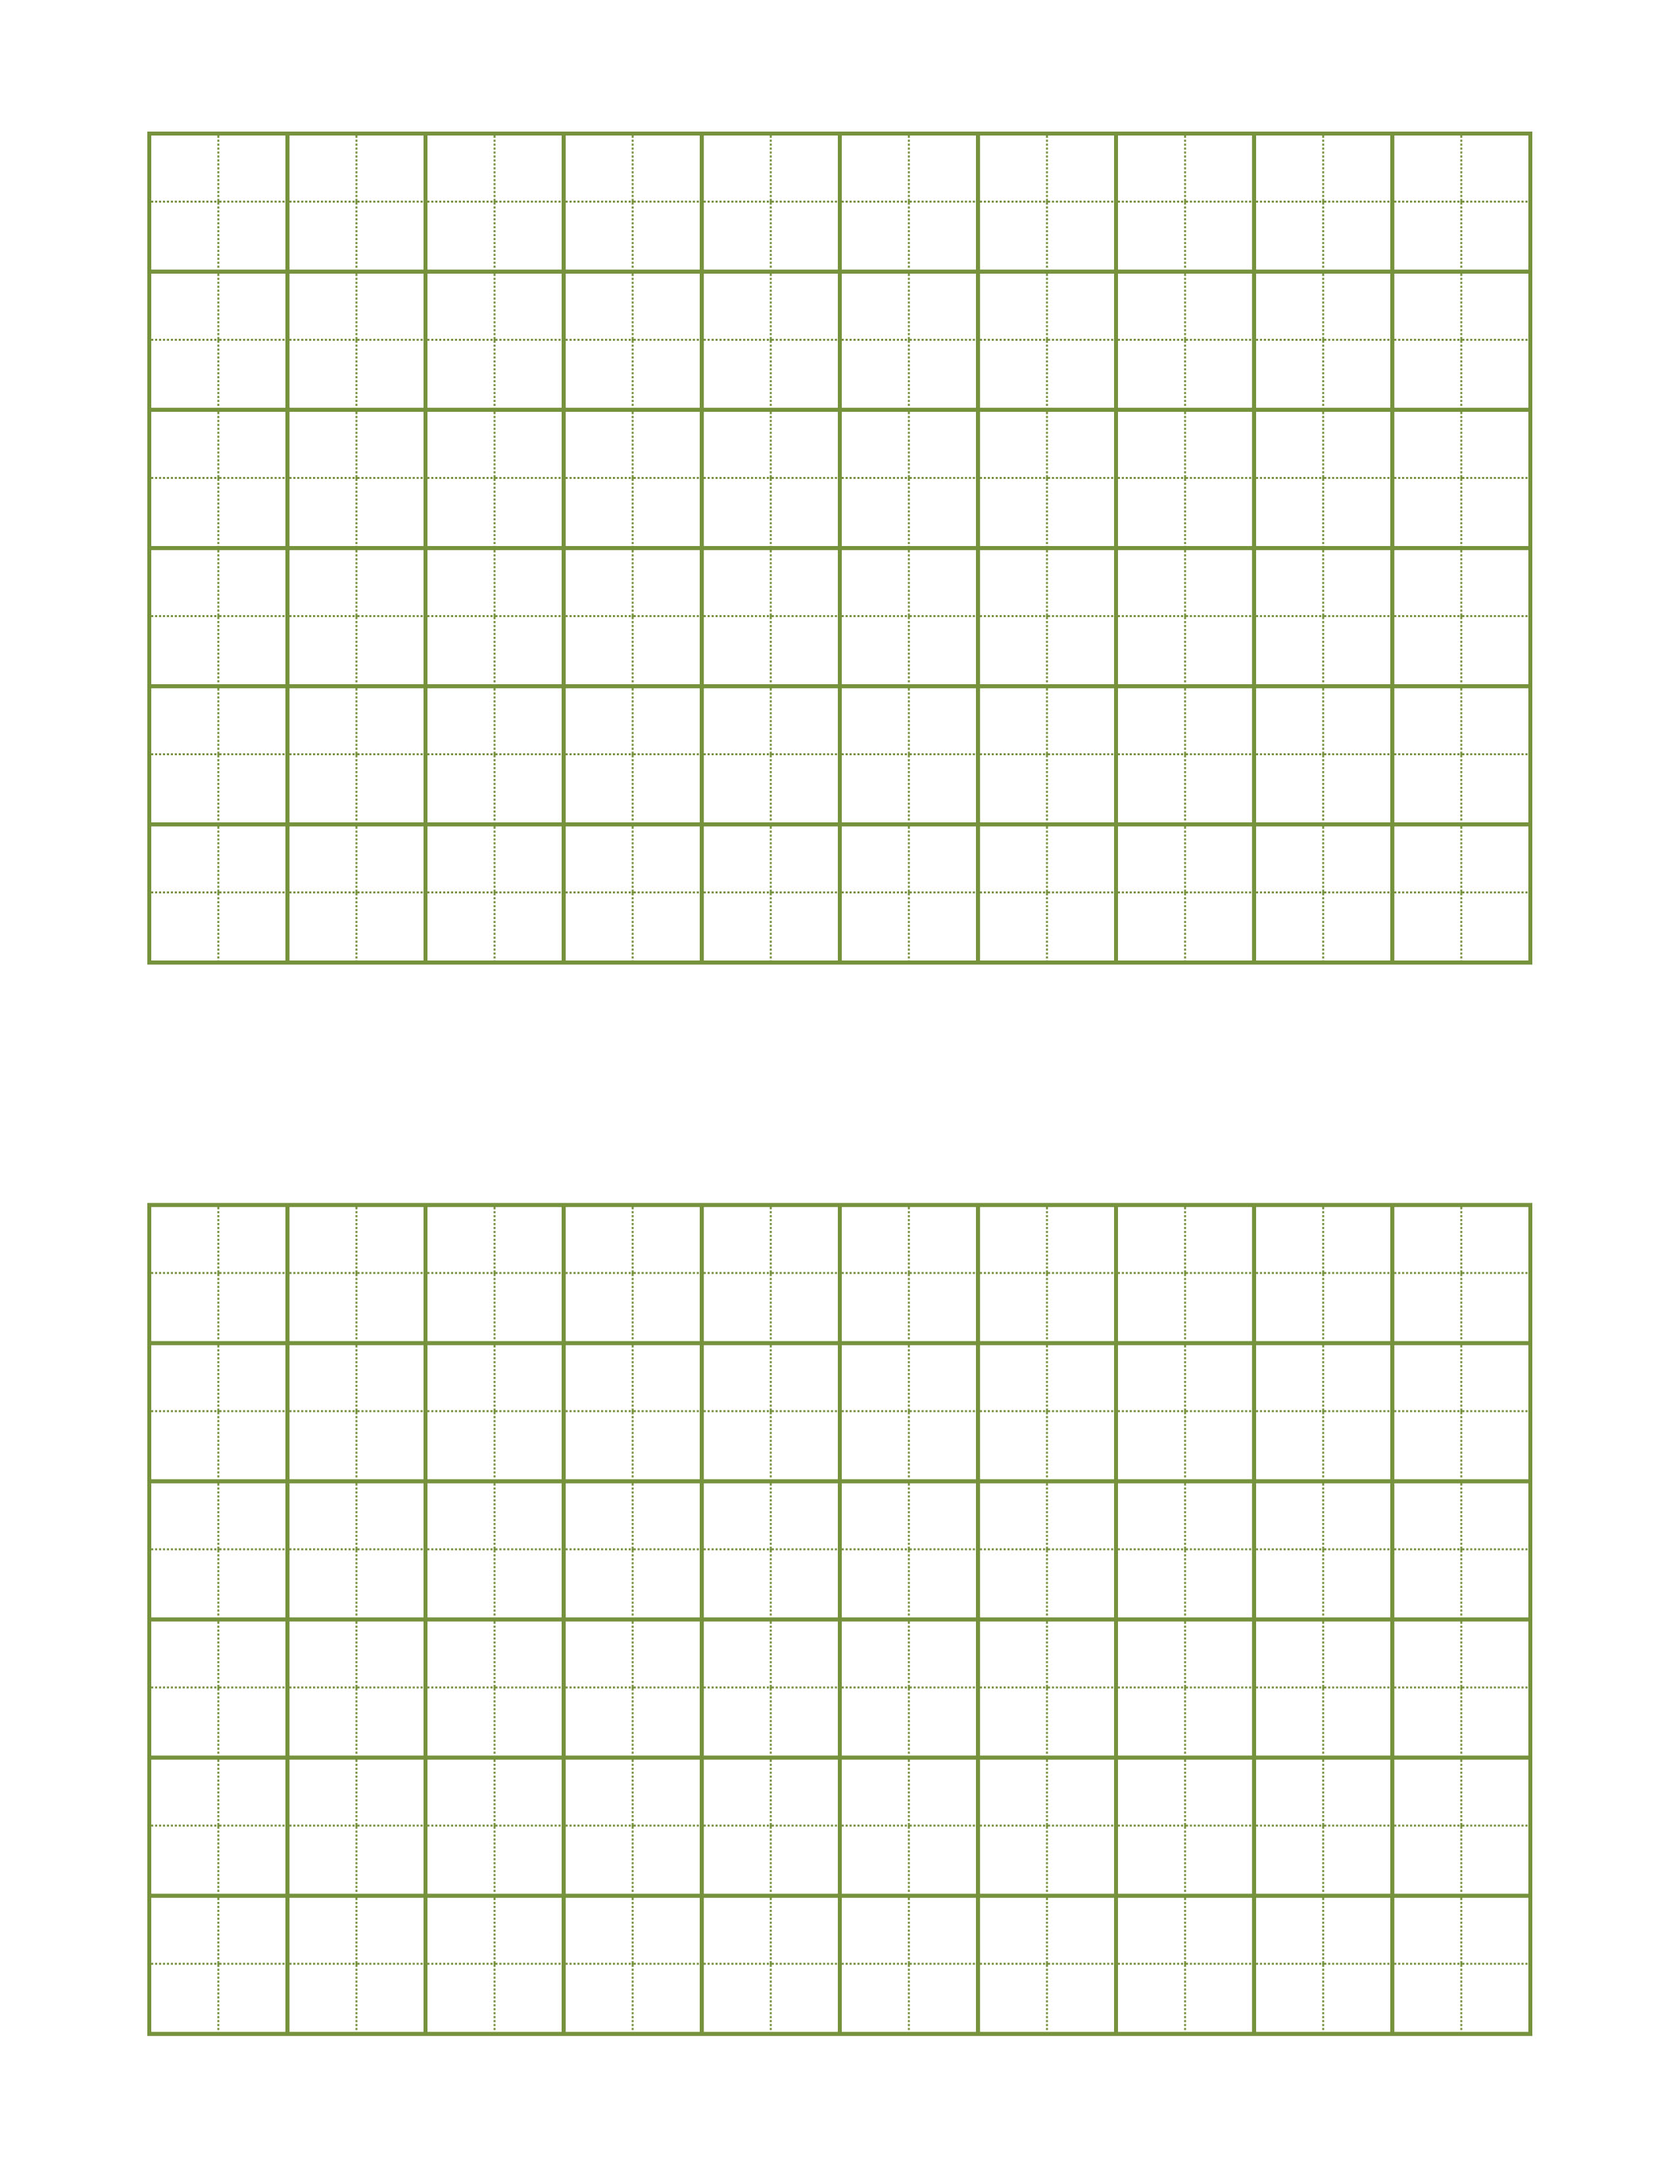
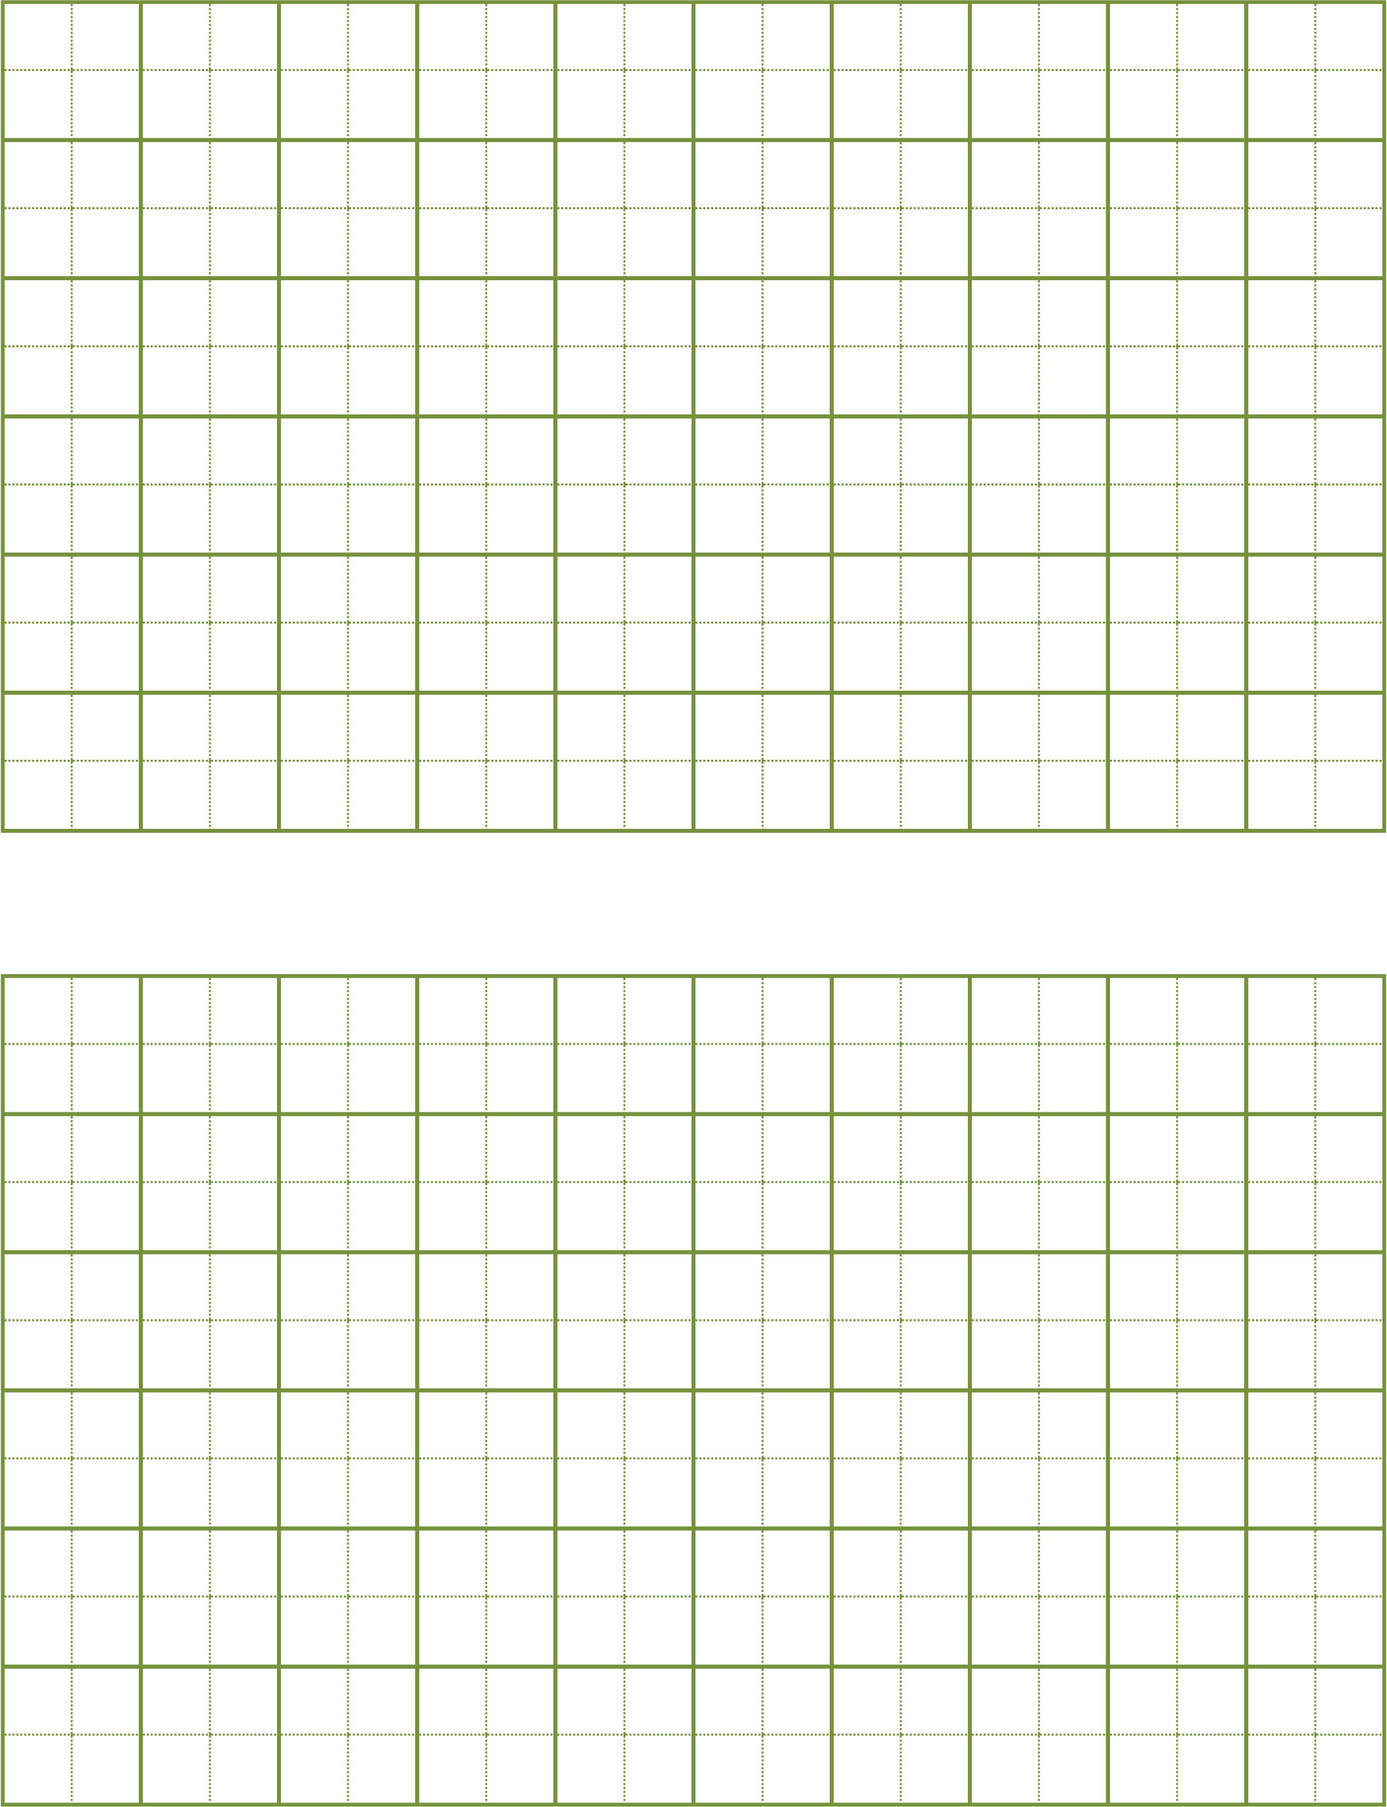
Fix printing

Changed region(s): [[0.0, 0.526, 1.0, 1.0], [0.0, 0.0, 0.9559, 0.4641], [0.9867, 0.0, 1.0, 0.4641]]

diff --git a/type1.css b/type1.css
@@ -1,7 +1,11 @@
 body {
-  width: 2550px;
-  height: 3300px;
+  width: 1216px;
+  height: 1455px;
   margin: 0px 0px 0px 0px;
+}
+
+@page {
+  margin: 1px 1px 1px 1px;
 }
 
 img {
@@ -9,57 +13,60 @@ img {
 }
 
 img.bg {
-  left: 0;
-  top: 0;
+  left: 81px;
+  top: 81px;
   z-index: 0;
+  width: 1054px;
 }
 
 img.u {
-  top: 207px;
+  width: 101px;
+  top: 84px;
   z-index: 1;
 }
 
 img.l {
-  top: 1836px;
+  width: 101px;
+  top: 824px;
   z-index: 1;
 }
 
 img.c0 {
-  left: 231px;
+  left: 85px;
 }
 
 img.c1 {
-  left: 441px;
+  left: 190px;
 }
 
 img.c2 {
-  left: 651px;
+  left: 295px;
 }
 
 img.c3 {
-  left: 861px;
+  left: 400px;
 }
 
 img.c4 {
-  left: 1071px;
+  left: 505px;
 }
 
 img.c5 {
-  left: 1281px;
+  left: 610px;
 }
 
 img.c6 {
-  left: 1491px;
+  left: 715px;
 }
 
 img.c7 {
-  left: 1701px;
+  left: 820px;
 }
 
 img.c8 {
-  left: 1911px;
+  left: 925px;
 }
 
 img.c9 {
-  left: 2121px;
+  left: 1030px;
 }

diff --git a/main.css b/main.css
@@ -1,4 +1,4 @@
 iframe.type1 {
-  width: 2830px;
-  height: 3300px;
+  width: 1415px;
+  height: 1650px;
 }
